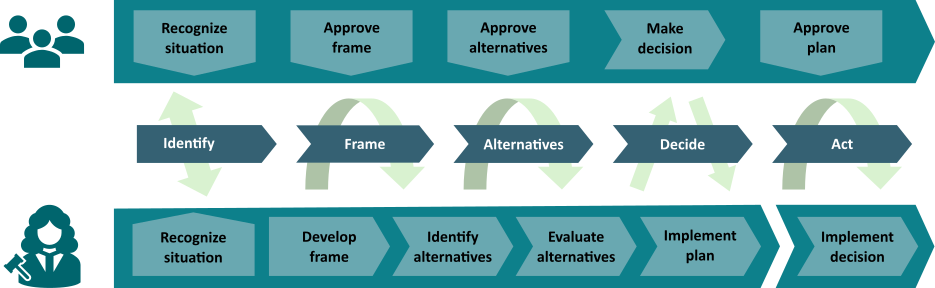
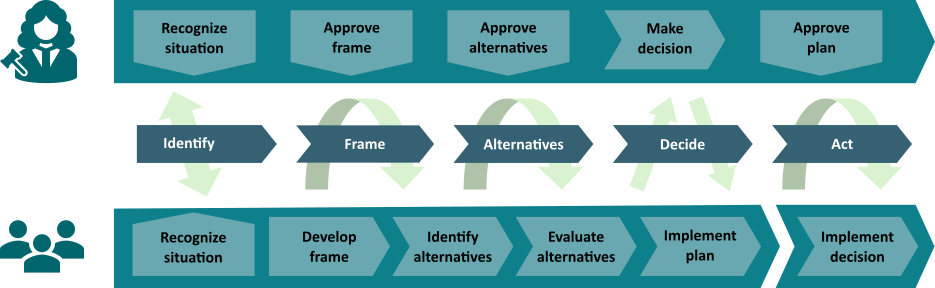
correct figure of DA dialog

Changed region(s): [[0.0, 0.6875, 0.093, 1.0], [0.0, 0.0, 0.093, 0.3125]]

diff --git a/domain/decision_quality.md b/domain/decision_quality.md
@@ -85,7 +85,7 @@ Common risks are
 </p>
 <br>
 <p align="center">
-<em>Decision dialog between the decision maker and the team of exports.</em>
+<em>Decision dialog between the decision maker and the team of exports. The top of the figure represents the role of the decision maker(s), and the bottom is the role of the analysts team. Between are arrows showing the interactions between the two.</em>
 </p>
 
 
